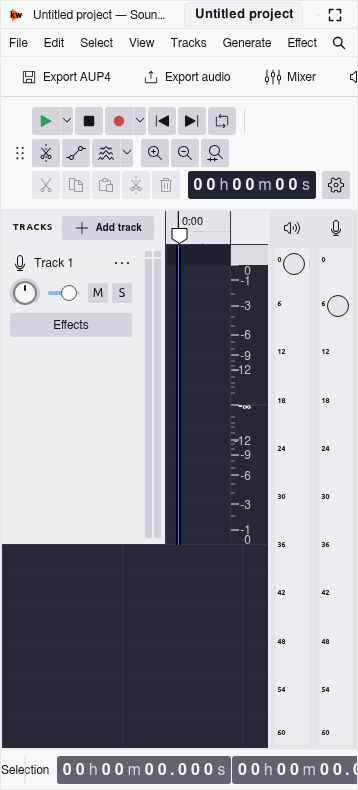
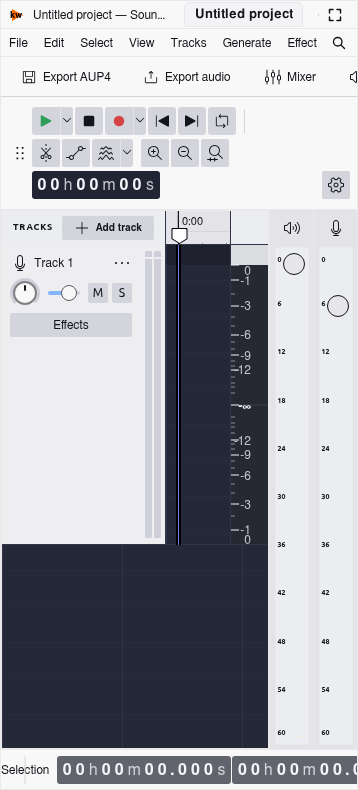
fix test

Changed region(s): [[0.0922, 0.2127, 0.4916, 0.2734], [0.5223, 0.2127, 0.8911, 0.2734]]

diff --git a/tests/browser/audio-editor.spec.js b/tests/browser/audio-editor.spec.js
@@ -2017,7 +2017,10 @@ test.describe('audio editor React/design-system workflows', () => {
 		await expect(preferences.getByRole('tab', { name: /Toolbars$/ })).toHaveCount(0);
 		await preferences.getByRole('button', { name: 'Close', exact: true }).last().click();
 		await expect(preferences).toBeHidden();
-		await expect(editor.locator('[data-workspace-toolbar]')).toHaveCount(4);
+		await expect(editor.locator('[data-workspace-toolbar="transport"]')).toHaveCount(1);
+		await expect(editor.locator('[data-workspace-toolbar="tools"]')).toHaveCount(1);
+		await expect(editor.locator('[data-workspace-toolbar="edit"]')).toHaveCount(0);
+		await expect(editor.locator('[data-workspace-toolbar="meter"]')).toHaveCount(1);
 	});
 
 	test('drags workspace panels between docks without subgroup toolbar grabbers', async ({ page }) => {